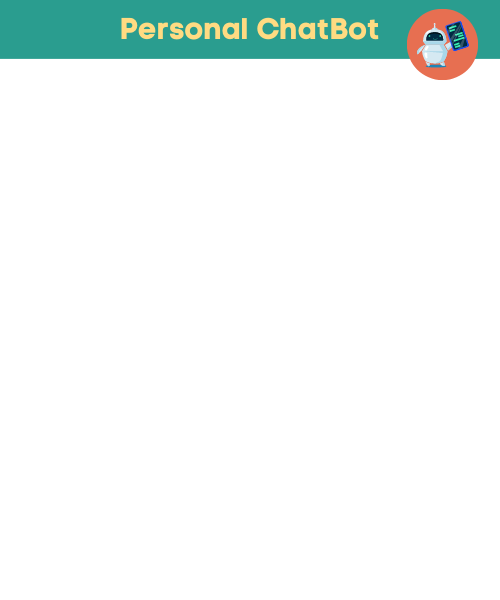
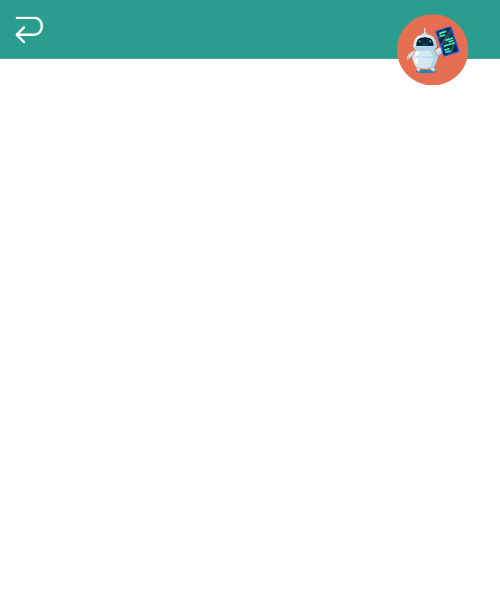
fix minor bugs, edit some names, add title of 2nd screen  as text

Changed region(s): [[0.24, 0.03, 0.75, 0.09], [0.78, 0.0, 0.96, 0.15], [0.03, 0.0, 0.09, 0.09]]

diff --git a/src/features/chat_widget.py b/src/features/chat_widget.py
@@ -23,6 +23,7 @@ class ChatWidget():
     def start(self, frame1:object, main_page:object, dropdown_choice:str) -> None:
         # Delete other widgets
         clear_widgets(frame=frame1)
+
         threading.Thread(
             target=self.chat_bot.load_knowledge,
             args=dropdown_choice
@@ -38,6 +39,25 @@ class ChatWidget():
         logo_wdiget.image = logo_img
 
         logo_wdiget.pack()
+
+        # BotName widget
+        menu_name = "".join(dropdown_choice[9:dropdown_choice.index(".")])
+        menu_name = " ".join(menu_name.split('_')).title()
+
+        _cut = 19 if len(menu_name) > 19 else None
+        
+        menu_name = menu_name[:_cut] + " ChatGPT"
+
+        textbox = tk.Label(
+            master=self.frame,
+            text=menu_name,
+            bg=color_heading_chat,
+            fg=color_button_text,
+            font=font_title
+        ).place(relx=0.16, rely=0.025, anchor="nw")
+
+
+        # Load other widgets
         self.__back_button(main_page)
         self.__user_input()
         self.__send_button()
@@ -97,7 +117,7 @@ class ChatWidget():
             hover_color=color_background_input,
             command=lambda: self.__get_user_input()
         )
-        send_button.place(relx=0.85, rely=0.9, anchor="center")
+        send_button.place(relx=0.85, rely=0.901, anchor="center")
 
 
     def __get_user_input(self):

diff --git a/src/features/main_page.py b/src/features/main_page.py
@@ -36,7 +36,7 @@ class MainPage():
         logo_wdiget.pack()
 
         self.dropdown_show = False
-        self.dropdown_choice = "src/data/empty_data.xlsx"
+        self.dropdown_choice = "src/data/original.xlsx"
 
         self.__start_button()
 
@@ -91,14 +91,14 @@ class MainPage():
             if self.dropdown_show:
                 self.dropdown_options.destroy()
 
-            self.dropdown_choice = "src/data/empty_data.xlsx"
+            self.dropdown_choice = "src/data/original.xlsx"
 
         else:
             options = (
                 [file[:file.find(".")] for file in listdir("src/data/") if isfile(join("src/data/", file))]
             )
 
-            dropdown_choice = customtkinter.StringVar(value="empty_data")
+            dropdown_choice = customtkinter.StringVar(value="original")
 
             self.dropdown_options = customtkinter.CTkComboBox(
                 master=self.frame,

diff --git a/src/features/chat_bot.py b/src/features/chat_bot.py
@@ -26,8 +26,6 @@ class ChatBot():
                     "content":knowledge_data["content"][row]
                 })
 
-        print(self.messages)
-
 
     def __generate_response(self, user_input:str):
         # Set up OpenAI API credentials from .env file
